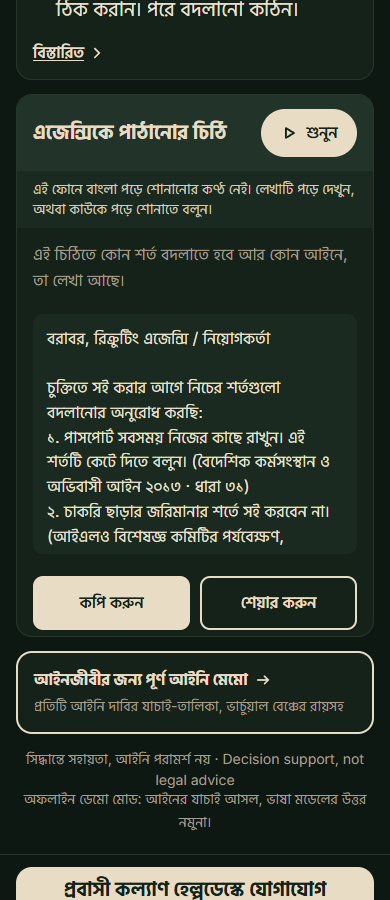
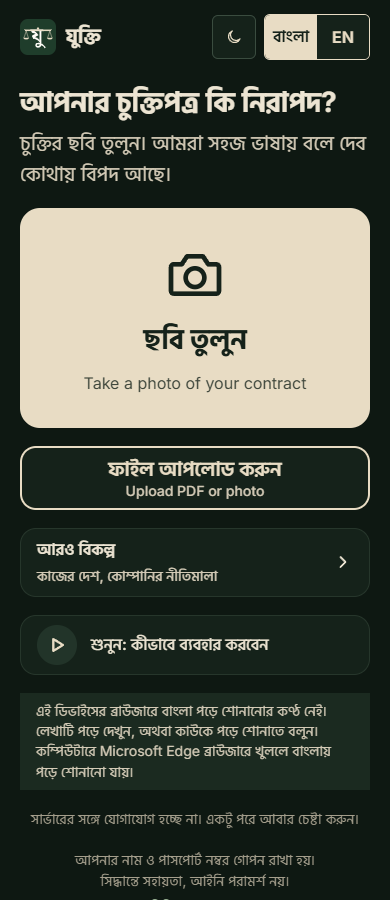
Read-aloud note: say "this browser", not "this phone", and point computer users to Edge
Chrome on Windows has no Bangla voice; Edge has natural bn-BD voices and reads the text (checked on the live site).

diff --git a/web/src/components/citizen/ResultScreen.tsx b/web/src/components/citizen/ResultScreen.tsx
@@ -9,6 +9,7 @@ import { Icon } from "@/components/shared/Icons";
 import { HeroChip, MoneyHero } from "@/components/shared/MoneyHero";
 import { PromiseStep } from "./PromiseStep";
 import { useScreenFocus } from "./useScreenFocus";
+import { VoiceNote } from "./VoiceNote";
 import styles from "./citizen.module.css";
 
 const T = STRINGS.result;
@@ -153,9 +154,7 @@ export function ResultScreen({ lang, result, speech, onBack, reload }: Props) {
                   </div>
                 )}
                 {speech.noVoice === card.kind && (
-                  <p className={styles.voiceNote} role="status">
-                    {STRINGS.voice.none[lang]}
-                  </p>
+                  <VoiceNote lang={lang} />
                 )}
 
                 <div className={styles.cardBody}>
@@ -226,9 +225,7 @@ export function ResultScreen({ lang, result, speech, onBack, reload }: Props) {
               </button>
             </div>
             {speech.noVoice === LETTER_ID && (
-              <p className={styles.voiceNote} role="status">
-                {STRINGS.voice.none[lang]}
-              </p>
+              <VoiceNote lang={lang} />
             )}
             <div className={styles.cardBody}>
               <p className={styles.letterSub}>{T.letterSub[lang]}</p>

diff --git a/web/src/lib/citizen/i18n.ts b/web/src/lib/citizen/i18n.ts
@@ -119,9 +119,11 @@ export const STRINGS = {
   // read-aloud on a device without a voice for the language (spec 28)
   voice: {
     none: {
-      bn: "এই ফোনে বাংলা পড়ে শোনানোর কণ্ঠ নেই। লেখাটি পড়ে দেখুন, অথবা কাউকে পড়ে শোনাতে বলুন।",
-      en: "This device has no English voice to read this aloud. Please read the text instead.",
+      bn: "এই ডিভাইসের ব্রাউজারে বাংলা পড়ে শোনানোর কণ্ঠ নেই। লেখাটি পড়ে দেখুন, অথবা কাউকে পড়ে শোনাতে বলুন।",
+      en: "This browser has no English voice to read this aloud. Please read the text instead.",
     },
+    // computers only: Chrome and Firefox there have no Bangla voice, Edge has natural bn-BD voices
+    edge: { bn: "কম্পিউটারে Microsoft Edge ব্রাউজারে খুললে বাংলায় পড়ে শোনানো যায়।" },
   },
 
   result: {

diff --git a/web/src/components/citizen/HomeScreen.tsx b/web/src/components/citizen/HomeScreen.tsx
@@ -8,6 +8,7 @@ import { SPEECH_LANG, STRINGS, type Lang } from "@/lib/citizen/i18n";
 import type { useSpeech } from "@/lib/citizen/useSpeech";
 import { Icon } from "@/components/shared/Icons";
 import { useScreenFocus } from "./useScreenFocus";
+import { VoiceNote } from "./VoiceNote";
 import styles from "./citizen.module.css";
 import { Logo } from "@/components/brand/Logo";
 import { ThemeToggle } from "@/components/shared/ThemeToggle";
@@ -198,9 +199,7 @@ export function HomeScreen({ lang, onLangChange, onFile, onSample, speech }: Pro
           {howToPlaying && <span className={styles.listenProgress} style={{ width: `${speech.pct}%` }} />}
         </button>
         {speech.noVoice === HOW_TO_ID && (
-          <p className={styles.voiceNote} role="status">
-            {STRINGS.voice.none[lang]}
-          </p>
+          <VoiceNote lang={lang} />
         )}
 
         {offline && (

diff --git a/web/src/components/citizen/VoiceNote.tsx b/web/src/components/citizen/VoiceNote.tsx
@@ -1,0 +1,21 @@
+"use client";
+
+import { STRINGS, type Lang } from "@/lib/citizen/i18n";
+import styles from "./citizen.module.css";
+
+/** Desktop browsers other than Edge: Chrome and Firefox on a computer have no Bangla voice, Edge has natural ones. */
+function edgeWouldHelp(lang: Lang): boolean {
+  if (lang !== "bn" || typeof navigator === "undefined") return false;
+  const ua = navigator.userAgent;
+  return !/Android|iPhone|iPad|Mobile/i.test(ua) && !/\bEdg\//.test(ua);
+}
+
+/** The honest line shown when read-aloud has no voice for the language (spec 28). Only rendered after a click. */
+export function VoiceNote({ lang }: { lang: Lang }) {
+  return (
+    <p className={styles.voiceNote} role="status">
+      {STRINGS.voice.none[lang]}
+      {edgeWouldHelp(lang) && ` ${STRINGS.voice.edge.bn}`}
+    </p>
+  );
+}

diff --git a/docs/specs/2026-11-20-28-judge-ready.md b/docs/specs/2026-11-20-28-judge-ready.md
@@ -199,6 +199,12 @@ salary line's weakest word, as the backend computes it.
   letter's text, then the button returns to Listen.
 - Real devices are left for step 6: desktop Chrome on Windows usually has no Bangla voice (the note); Android
   Chrome with Google TTS Bangla and Edge's online voices should read the letter to the end.
+- Follow-up (2026-11-20, the user saw the note on a PC): on this Windows 11 PC, Chrome lists 3 voices, all English
+  SAPI (no Bangla), so the note is right there. Edge lists 324, including bn-BD "Microsoft নবনীতা/প্রদ্বীপ Online
+  (Natural)" and two bn-IN ones. On the live site, Edge's how-to button picked নবনীতা and started speaking
+  (`start` event, button still playing after 15 s). The note said "এই ফোনে" (this phone) on a computer, so it now
+  says "এই ডিভাইসের ব্রাউজারে", and, on a computer browser other than Edge, adds that Edge reads Bangla aloud
+  (`VoiceNote.tsx`; an Android user agent gets no hint).
 
 ## 6. Redeploy, then the full Citizen flow at 390px
 - **Before:** on the live site, run one sample and keep its `/r/<id>` link.
